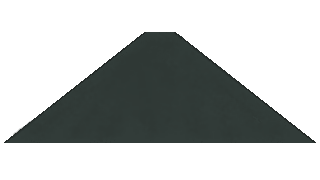
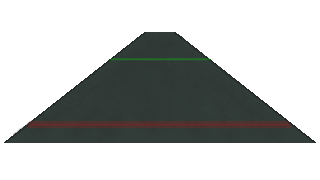
accidentaly did in main sorry, but added sprites draw for zombies, added range for sword and gun burst

Changed region(s): [[0.0625, 0.6667, 0.9062, 0.7222], [0.3438, 0.3056, 0.6562, 0.3333]]

diff --git a/scripts/player_manager.py b/scripts/player_manager.py
@@ -27,15 +27,24 @@ class Player_manager:
                     case pygame.K_l: # Light hit
                         for enemy in EnemySpawner.enemies:
                             if pygame.Rect.colliderect(enemy.rect, self.rect):
-                                enemy.health -= self.sword_damage[0] if self.weapon == 0 else self.gun_damage[0]
+                                if(self.weapon == 0):
+                                    self.swing_sword(0,enemy)
+                                else:
+                                    self.shoot_gun(0, enemy)
                     case pygame.K_m: # Medium hit
                         for enemy in EnemySpawner.enemies:
                             if pygame.Rect.colliderect(enemy.rect, self.rect):
-                                enemy.health -= self.sword_damage[1] if self.weapon == 0 else self.gun_damage[1]
+                                if(self.weapon == 0):
+                                    self.swing_sword(1,enemy)
+                                else:
+                                    self.shoot_gun(1, enemy)
                     case pygame.K_h: # Hard hit
                         for enemy in EnemySpawner.enemies:
                             if pygame.Rect.colliderect(enemy.rect, self.rect):
-                                enemy.health -= self.sword_damage[2] if self.weapon == 0 else self.gun_damage[2]
+                                if(self.weapon == 0):
+                                    self.swing_sword(1,enemy)
+                                else:
+                                    self.shoot_gun(1, enemy)
 
         if(self.weapon == 0):
             self.rect.width = self.sword_rect[0]
@@ -60,6 +69,15 @@ class Player_manager:
         # Health Indicator
         health_text = self.font.render(f"{self.health}/100", False, (0, 0, 0))
         surface.blit(health_text, (100,200))
+
+    def swing_sword(self, amount, enemy):
+        if(enemy.distance < 8):
+            enemy.health -= self.sword_damage[amount]
+
+    def shoot_gun(self, amount, enemy):
+        for i in range(amount + 1):
+            enemy.health -= self.gun_damage
+
 
         
  

diff --git a/scripts/enemy.py b/scripts/enemy.py
@@ -37,6 +37,8 @@ class Enemy:
         self.width = width
         self.damage = damage
         self.health = health
+        self.ZOMBIE_IMAGE_FULL = pygame.image.load("assets/Zombie.png").convert_alpha()
+        self.ZOMBIE_IMAGE_HALF = pygame.image.load("assets/Zombie_took_hits.png").convert_alpha()
  
     def update(self, dt):  
         # Move enemy closer over time
@@ -59,8 +61,14 @@ class Enemy:
             self.deal_damage()
  
     def draw(self, surface):
-        color = (255, 255, 255)
-        pygame.draw.rect(surface, color, self.rect)
+        # Choose sprite based on health
+        current_image = self.ZOMBIE_IMAGE_FULL if self.health > 50 else self.ZOMBIE_IMAGE_HALF
+
+        # Scale the image to match the updated rectangle size
+        scaled_image = pygame.transform.scale(current_image, (self.rect.width, self.rect.height))
+
+        # Render scaled image to the surface
+        surface.blit(scaled_image, self.rect)
  
     def deal_damage(self):
         if self.distance <= 2:

diff --git a/scripts/enemy_spawner.py b/scripts/enemy_spawner.py
@@ -16,7 +16,7 @@ class EnemySpawner:
 
   def spawn_enemy(self):
     random_x = random.uniform(-2, 2)
-    new_enemy = Enemy(random_x, 0, 50, 150, 100, 10)
+    new_enemy = Enemy(random_x, 0, 38 * 3, 60 * 3, 100, 10)
     # Přidáváme do třídního seznamu
     EnemySpawner.enemies.append(new_enemy)
 

diff --git a/scripts/ability_spawner.py b/scripts/ability_spawner.py
@@ -12,7 +12,7 @@ class AbilitySpawner:
         self.abilities = []
 
         self.spawn_timer = 0.0
-        self.spawn_delay = 7.15
+        self.spawn_delay = 15.05251
 
     def spawn_ability(self):
         random_x = random.uniform(-2, 2)

diff --git a/scripts/program.py b/scripts/program.py
@@ -17,6 +17,7 @@ WINDOW_W, WINDOW_H = INTERNAL_W * WINDOW_SCALE, INTERNAL_H * WINDOW_SCALE
 
 
 
+
 class Game:
     def __init__(self):
         pygame.init()
